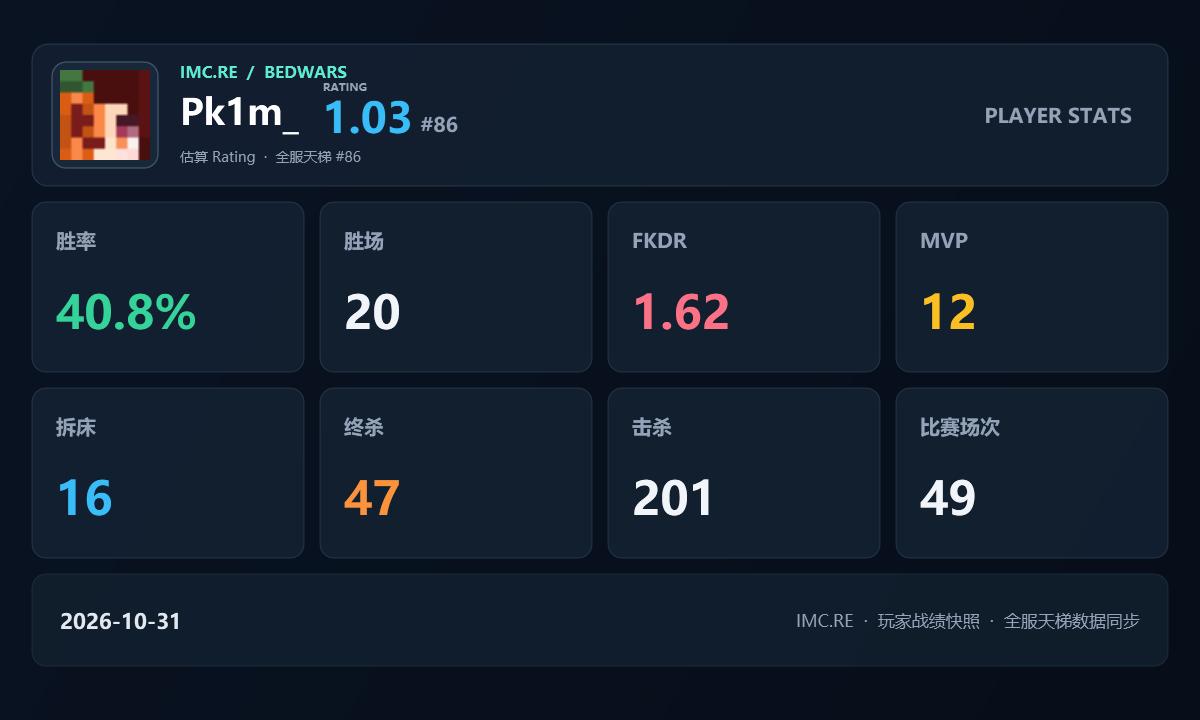
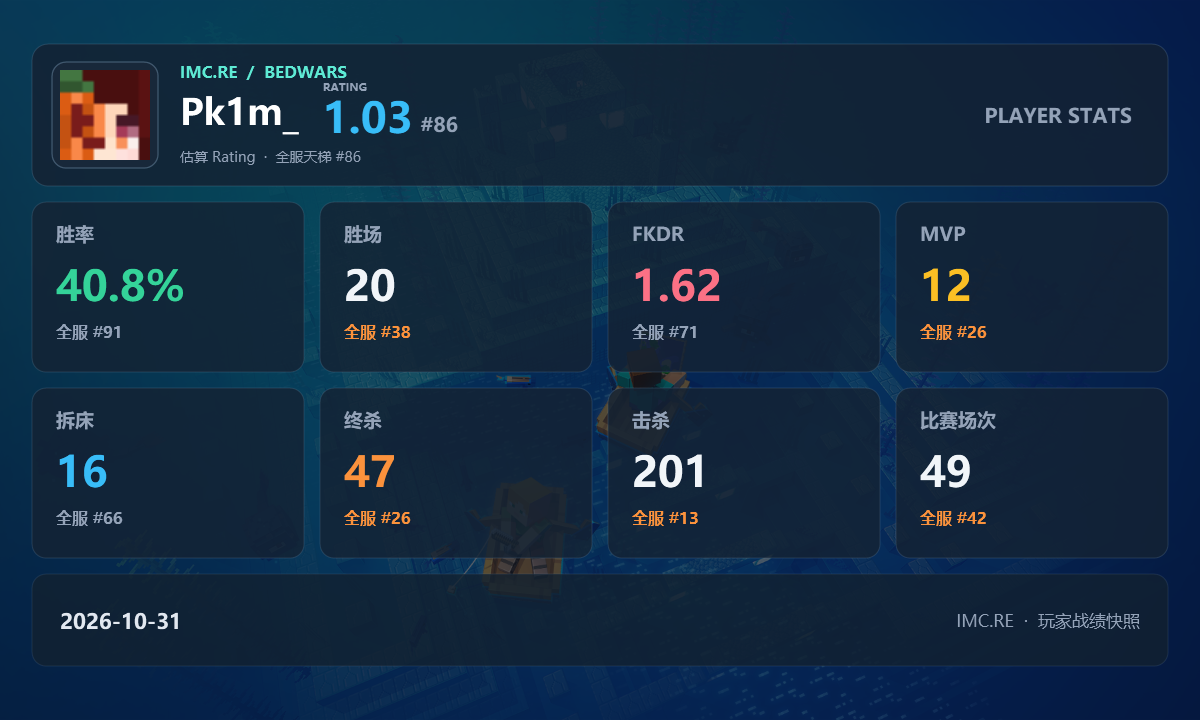
Add ranking text under each stat without box frame and remove sync text from footer

Changed region(s): [[0.0, 0.0, 1.0, 1.0], [0.6475, 0.8556, 0.7092, 0.8861]]

diff --git a/StatsCardRenderer.cs b/StatsCardRenderer.cs
@@ -74,7 +74,7 @@ internal static class StatsCardRenderer
             dc.DrawText(ratingFormatted, new Point(ratingX, headerY + 46));
             double ratingNumWidth = ratingFormatted.Width;
 
-            // Rating rank tag right next to Rating number (NO BOX FRAME!)
+            // Rating rank tag right next to Rating number (NO BOX FRAME)
             var ratingRank = player.RatingRank;
             string ratingRankTag = string.IsNullOrEmpty(ratingRank.Tag) ? "#-" : ratingRank.Tag;
             string ratingRankColor = RankVisuals.GetRankColorHex(ratingRank.Rank);
@@ -95,27 +95,27 @@ internal static class StatsCardRenderer
 
             // ================= 8 STAT CARDS (2 ROWS x 4 COLS) =================
             var stats = player.GameMode == "counterember"
-                ? new (string Label, string Value, string Color)[]
+                ? new (string Label, string Value, string Color, StatRankInfo Rank)[]
                 {
-                    ("胜率", player.WinRate.ToString("P1"), "#34D399"),
-                    ("胜场", player.Wins.ToString(), "#F1F5F9"),
-                    ("K/D", player.KD.ToString("F2"), "#FB7185"),
-                    ("MVP", player.MVPs.ToString(), "#FBBF24"),
-                    ("ADR", player.Adr.ToString("F1"), "#38BDF8"),
-                    ("爆头率", player.HsRate.ToString("P1"), "#FB923C"),
-                    ("击杀", player.Kills.ToString(), "#F1F5F9"),
-                    ("比赛场次", player.Matches.ToString(), "#F1F5F9")
+                    ("胜率", player.WinRate.ToString("P1"), "#34D399", player.WinRateRank),
+                    ("胜场", player.Wins.ToString(), "#F1F5F9", player.WinsRank),
+                    ("K/D", player.KD.ToString("F2"), "#FB7185", player.KDRank),
+                    ("MVP", player.MVPs.ToString(), "#FBBF24", player.MVPRank),
+                    ("ADR", player.Adr.ToString("F1"), "#38BDF8", player.AdrRank),
+                    ("爆头率", player.HsRate.ToString("P1"), "#FB923C", player.HsRateRank),
+                    ("击杀", player.Kills.ToString(), "#F1F5F9", player.KillsRank),
+                    ("比赛场次", player.Matches.ToString(), "#F1F5F9", player.MatchesRank)
                 }
-                : new (string Label, string Value, string Color)[]
+                : new (string Label, string Value, string Color, StatRankInfo Rank)[]
                 {
-                    ("胜率", player.WinRate.ToString("P1"), "#34D399"),
-                    ("胜场", player.Wins.ToString(), "#F1F5F9"),
-                    ("FKDR", player.Fkdr.ToString("F2"), "#FB7185"),
-                    ("MVP", player.MVPs.ToString(), "#FBBF24"),
-                    ("拆床", player.BedsBroken.ToString(), "#38BDF8"),
-                    ("终杀", player.FinalKills.ToString(), "#FB923C"),
-                    ("击杀", player.Kills.ToString(), "#F1F5F9"),
-                    ("比赛场次", player.Matches.ToString(), "#F1F5F9")
+                    ("胜率", player.WinRate.ToString("P1"), "#34D399", player.WinRateRank),
+                    ("胜场", player.Wins.ToString(), "#F1F5F9", player.WinsRank),
+                    ("FKDR", player.Fkdr.ToString("F2"), "#FB7185", player.FkdrRank),
+                    ("MVP", player.MVPs.ToString(), "#FBBF24", player.MVPRank),
+                    ("拆床", player.BedsBroken.ToString(), "#38BDF8", player.BedsRank),
+                    ("终杀", player.FinalKills.ToString(), "#FB923C", player.FinalsRank),
+                    ("击杀", player.Kills.ToString(), "#F1F5F9", player.KillsRank),
+                    ("比赛场次", player.Matches.ToString(), "#F1F5F9", player.MatchesRank)
                 };
 
             const double cardW = 272; // (1136 - 16 * 3) / 4 = 1088 / 4 = 272 exactly!
@@ -134,12 +134,18 @@ internal static class StatsCardRenderer
                 dc.DrawRoundedRectangle(Brush("#D2142233"), new Pen(Brush("#5058728A"), 1), new Rect(x, y, cardW, cardH), 14, 14);
 
                 // Label
-                Text(dc, stats[i].Label, x + 24, y + 26, 20, "#94A3B8", true, cardW - 48);
+                Text(dc, stats[i].Label, x + 24, y + 20, 19, "#94A3B8", true, cardW - 48);
 
-                // Value (large, bold, centered)
-                var valFormatted = new FormattedText(stats[i].Value, CultureInfo.CurrentCulture, FlowDirection.LeftToRight, Bold, 46, Brush(stats[i].Color), 1.0)
+                // Value (large, bold)
+                var valFormatted = new FormattedText(stats[i].Value, CultureInfo.CurrentCulture, FlowDirection.LeftToRight, Bold, 42, Brush(stats[i].Color), 1.0)
                 { MaxTextWidth = cardW - 48, MaxLineCount = 1, Trimming = TextTrimming.CharacterEllipsis };
-                dc.DrawText(valFormatted, new Point(x + 24, y + 80));
+                dc.DrawText(valFormatted, new Point(x + 24, y + 56));
+
+                // Individual metric rank info (NO BOX FRAME - clean colored text directly under value)
+                var rank = stats[i].Rank;
+                string rankTag = string.IsNullOrEmpty(rank.Tag) ? "#-" : rank.Tag;
+                string rankColor = RankVisuals.GetRankColorHex(rank.Rank);
+                Text(dc, "全服 " + rankTag, x + 24, y + 120, 16, rankColor, true, cardW - 48);
             }
 
             // ================= FOOTER CONTAINER =================
@@ -149,7 +155,7 @@ internal static class StatsCardRenderer
 
             Text(dc, date.ToString("yyyy-MM-dd", CultureInfo.InvariantCulture), marginX + 28, footerY + 34, 21, "#E2E8F0", true);
 
-            var footerSubFormatted = new FormattedText("IMC.RE  ·  玩家战绩快照  ·  全服天梯数据同步", CultureInfo.CurrentCulture, FlowDirection.LeftToRight, Regular, 17, Brush("#94A3B8"), 1.0);
+            var footerSubFormatted = new FormattedText("IMC.RE  ·  玩家战绩快照", CultureInfo.CurrentCulture, FlowDirection.LeftToRight, Regular, 17, Brush("#94A3B8"), 1.0);
             dc.DrawText(footerSubFormatted, new Point(marginX + contentW - footerSubFormatted.Width - 28, footerY + 36));
         }
 

diff --git a/tests/Overlay.Checks/Program.cs b/tests/Overlay.Checks/Program.cs
@@ -52,6 +52,14 @@ internal static class Program
             Rating = 1.03
         };
         player.RatingRank = new StatRankInfo(86);
+        player.WinRateRank = new StatRankInfo(91);
+        player.WinsRank = new StatRankInfo(38);
+        player.FkdrRank = new StatRankInfo(71);
+        player.MVPRank = new StatRankInfo(26);
+        player.BedsRank = new StatRankInfo(66);
+        player.FinalsRank = new StatRankInfo(26);
+        player.KillsRank = new StatRankInfo(13);
+        player.MatchesRank = new StatRankInfo(42);
 
         // Fetch avatar for Pk1m_
         try
